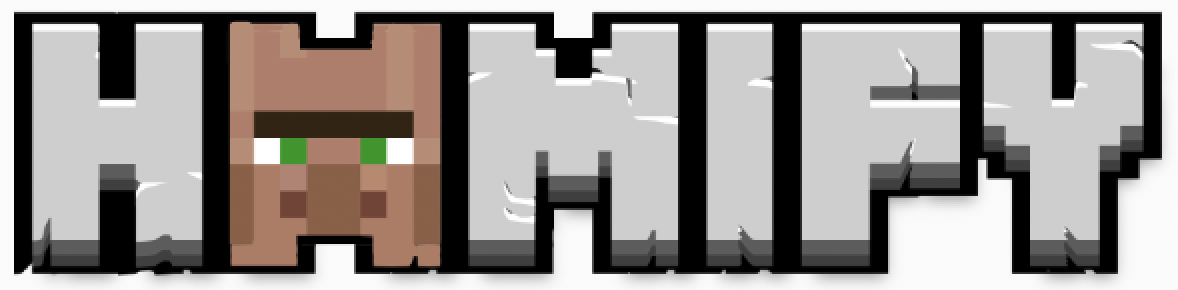
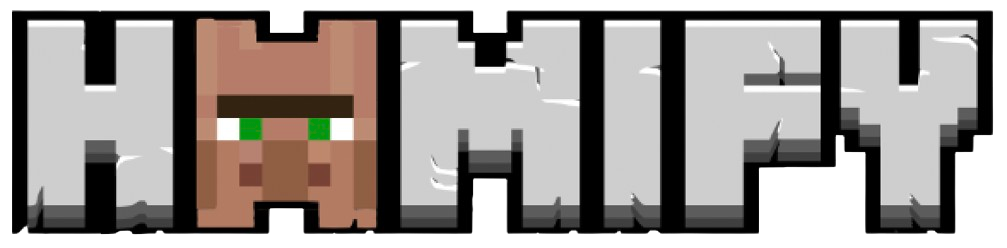
feat: add idle wandering animation and update background
- Add natural idle wandering behavior to villager before music plays
  - Smooth horizontal gliding with gentle vertical hops
  - Instant sprite flipping when changing direction
  - Continuous position tracking for seamless movement
  - Movement stops and resets to center when music starts

- Replace background image with background_edited.png

- Improve cache integration in API routes

diff --git a/components/VillagerDancer.tsx b/components/VillagerDancer.tsx
@@ -1,6 +1,6 @@
 "use client";
 
-import { useEffect, useState } from "react";
+import { useEffect, useState, useRef } from "react";
 import { cn } from "@/lib/utils";
 import Image from "next/image";
 
@@ -14,57 +14,148 @@ interface VillagerDancerProps {
 }
 
 export function VillagerDancer({ isPlaying = false, className }: VillagerDancerProps) {
+  // Dancing state
   const [currentMove, setCurrentMove] = useState<DanceMove>("idle");
   const [isAnimating, setIsAnimating] = useState(false);
+  
+  // Wandering state
+  const [positionX, setPositionX] = useState(0); // Percentage -40 to 40
+  const [isFacingRight, setIsFacingRight] = useState(false);
+  const [isWandering, setIsWandering] = useState(false);
+  const [hopState, setHopState] = useState(false);
+  const [moveDuration, setMoveDuration] = useState(1000);
 
+  // Refs
+  const wanderTimeoutRef = useRef<NodeJS.Timeout | null>(null);
+  const hopIntervalRef = useRef<NodeJS.Timeout | null>(null);
+  const currentPosRef = useRef(0); 
+
+  // Dancing Logic
   useEffect(() => {
     if (!isPlaying) {
       setCurrentMove("idle");
       return;
     }
 
+    // Reset wandering state when playing starts
+    if (wanderTimeoutRef.current) clearTimeout(wanderTimeoutRef.current);
+    if (hopIntervalRef.current) clearInterval(hopIntervalRef.current);
+    
+    setPositionX(0);
+    currentPosRef.current = 0;
+    setIsWandering(false);
+    setIsFacingRight(false);
+    setHopState(false);
+
     const changeMove = () => {
       setIsAnimating(true);
       const randomMove = danceMoves[Math.floor(Math.random() * danceMoves.length)];
       setCurrentMove(randomMove);
       
-      // Reset animation state after animation completes
       setTimeout(() => setIsAnimating(false), 2000);
     };
 
-    // Change dance move every 2-4 seconds
     const interval = setInterval(changeMove, 2000 + Math.random() * 2000);
-    changeMove(); // Initial move
+    changeMove();
 
     return () => clearInterval(interval);
   }, [isPlaying]);
 
+  // Wandering Logic (when not playing)
+  useEffect(() => {
+    if (isPlaying) return;
+
+    const moveVillager = (targetX: number, facingRight: boolean, duration: number) => {
+      // Start movement
+      setIsFacingRight(facingRight);
+      setIsWandering(true);
+      setPositionX(targetX);
+      setMoveDuration(duration);
+      currentPosRef.current = targetX;
+
+      // Start gentle hopping
+      const hopInterval = setInterval(() => {
+        setHopState(prev => !prev);
+      }, 200); // Faster, smaller hops
+      hopIntervalRef.current = hopInterval;
+
+      // Stop moving after transition
+      setTimeout(() => {
+        setIsWandering(false);
+        setHopState(false);
+        if (hopIntervalRef.current) {
+            clearInterval(hopIntervalRef.current);
+            hopIntervalRef.current = null;
+        }
+        scheduleWander(); // Schedule next move loop
+      }, duration);
+    };
+
+    const scheduleWander = () => {
+      const waitTime = 1000 + Math.random() * 3000; 
+
+      wanderTimeoutRef.current = setTimeout(() => {
+        const newX = Math.floor(Math.random() * 80) - 40;
+        const movingRight = newX > currentPosRef.current;
+        
+        // Calculate duration based on distance
+        const distance = Math.abs(newX - currentPosRef.current);
+        // Ensure minimum duration so short moves aren't too fast
+        const duration = Math.max(1000, distance * 30); 
+
+        moveVillager(newX, movingRight, duration);
+
+      }, waitTime);
+    };
+
+    scheduleWander();
+
+    return () => {
+      if (wanderTimeoutRef.current) clearTimeout(wanderTimeoutRef.current);
+      if (hopIntervalRef.current) clearInterval(hopIntervalRef.current);
+    };
+  }, [isPlaying]);
+
   return (
-    <div className={cn("relative flex items-center justify-center", className)}>
+    <div className={cn("relative flex items-center justify-center w-full h-full", className)}>
       <div
         className={cn(
-          "relative transition-all duration-500",
-          currentMove === "bob" && isAnimating && "animate-bounce",
-          currentMove === "spin" && isAnimating && "animate-spin",
-          currentMove === "jump" && isAnimating && "animate-bounce scale-110"
+          "relative transition-all ease-linear", // Use linear for X movement to avoid ease-in/out stopping the feel of walking
+          // Dance animations
+          isPlaying && currentMove === "bob" && isAnimating && "animate-bounce",
+          isPlaying && currentMove === "spin" && isAnimating && "animate-spin",
+          isPlaying && currentMove === "jump" && isAnimating && "animate-bounce scale-110"
         )}
         style={{
-          animationDuration: currentMove === "spin" ? "1s" : "0.5s",
-          transform: currentMove === "wiggle" && isAnimating 
-            ? "rotate(-5deg)" 
-            : currentMove === "wiggle" && !isAnimating
-            ? "rotate(5deg)"
-            : undefined,
+          // Main wrapper handles X position
+          transform: `
+            translateX(${isPlaying ? 0 : positionX}%) 
+            ${isPlaying && currentMove === "wiggle" && isAnimating ? "rotate(-5deg)" : ""}
+            ${isPlaying && currentMove === "wiggle" && !isAnimating ? "rotate(5deg)" : ""}
+          `,
+          transitionDuration: isPlaying ? "0.5s" : `${moveDuration}ms`,
         }}
       >
-        <Image
-          src="/images/villager.png"
-          alt="Minecraft Villager"
-          width={256}
-          height={256}
-          className="w-64 h-64 object-contain drop-shadow-lg"
-          priority
-        />
+         {/* Inner wrapper handles Y-axis hopping independently + FLIPPING */}
+         <div 
+            className="transition-transform duration-200 ease-in-out"
+            style={{
+                // Apply ScaleX here so it's not affected by the long transition duration of the parent
+                transform: `
+                    translateY(${!isPlaying && isWandering && hopState ? "-10px" : "0"}) 
+                    scaleX(${!isPlaying && isFacingRight ? -1 : 1})
+                `
+            }}
+         >
+            <Image
+            src="/images/villager.png"
+            alt="Minecraft Villager"
+            width={256}
+            height={256}
+            className="w-64 h-64 object-contain drop-shadow-lg"
+            priority
+            />
+        </div>
       </div>
     </div>
   );

diff --git a/app/api/convert-to-villager/route.ts b/app/api/convert-to-villager/route.ts
@@ -53,11 +53,11 @@ export async function POST(request: NextRequest) {
         const filePath = path.join(process.cwd(), "public", "temp", localFilename);
         try {
             const buffer = await fs.readFile(filePath);
-            const base64 = buffer.toString('base64');
+                const base64 = buffer.toString('base64');
             const ext = path.extname(localFilename).toLowerCase();
-            const mime = ext === '.mp3' ? 'audio/mpeg' : 'audio/wav'; 
-            inputAudio = `data:${mime};base64,${base64}`;
-            console.log("Converted local audio to Data URI for Replicate");
+                const mime = ext === '.mp3' ? 'audio/mpeg' : 'audio/wav'; 
+                inputAudio = `data:${mime};base64,${base64}`;
+                console.log("Converted local audio to Data URI for Replicate");
         } catch (err) {
             console.error("Error reading local file:", err);
             return NextResponse.json({ error: "Local audio file not found" }, { status: 404 });

diff --git a/app/page.tsx b/app/page.tsx
@@ -76,8 +76,8 @@ export default function Home() {
   }, []);
 
   const nextMemeSlide = useCallback(() => {
-    // 1. Start fade out
-    setFadeState('out');
+      // 1. Start fade out
+      setFadeState('out');
 
     // 2. Change image after fade out
     slideshowTimerRef.current = setTimeout(() => {
@@ -286,7 +286,7 @@ export default function Home() {
   };
 
   return (
-    <main className="min-h-screen bg-cover bg-center bg-fixed" style={{ backgroundImage: "url('/images/free-minecraft-sky-background-edit-online-1.jpg')" }}>
+    <main className="min-h-screen bg-cover bg-center bg-fixed" style={{ backgroundImage: "url('/images/background_edited.png')" }}>
       <div className="min-h-screen bg-background/40 relative">
         <div className="container mx-auto px-4 py-12">
           <div className="max-w-4xl mx-auto">

diff --git a/app/api/separate-vocals/route.ts b/app/api/separate-vocals/route.ts
@@ -52,7 +52,7 @@ export async function POST(request: NextRequest) {
     try {
         await fs.access(filePath);
     } catch {
-        return NextResponse.json({ error: "File not found on server" }, { status: 404 });
+      return NextResponse.json({ error: "File not found on server" }, { status: 404 });
     }
 
     console.log(`Sending ${filename} to Replicate for vocal separation...`);
